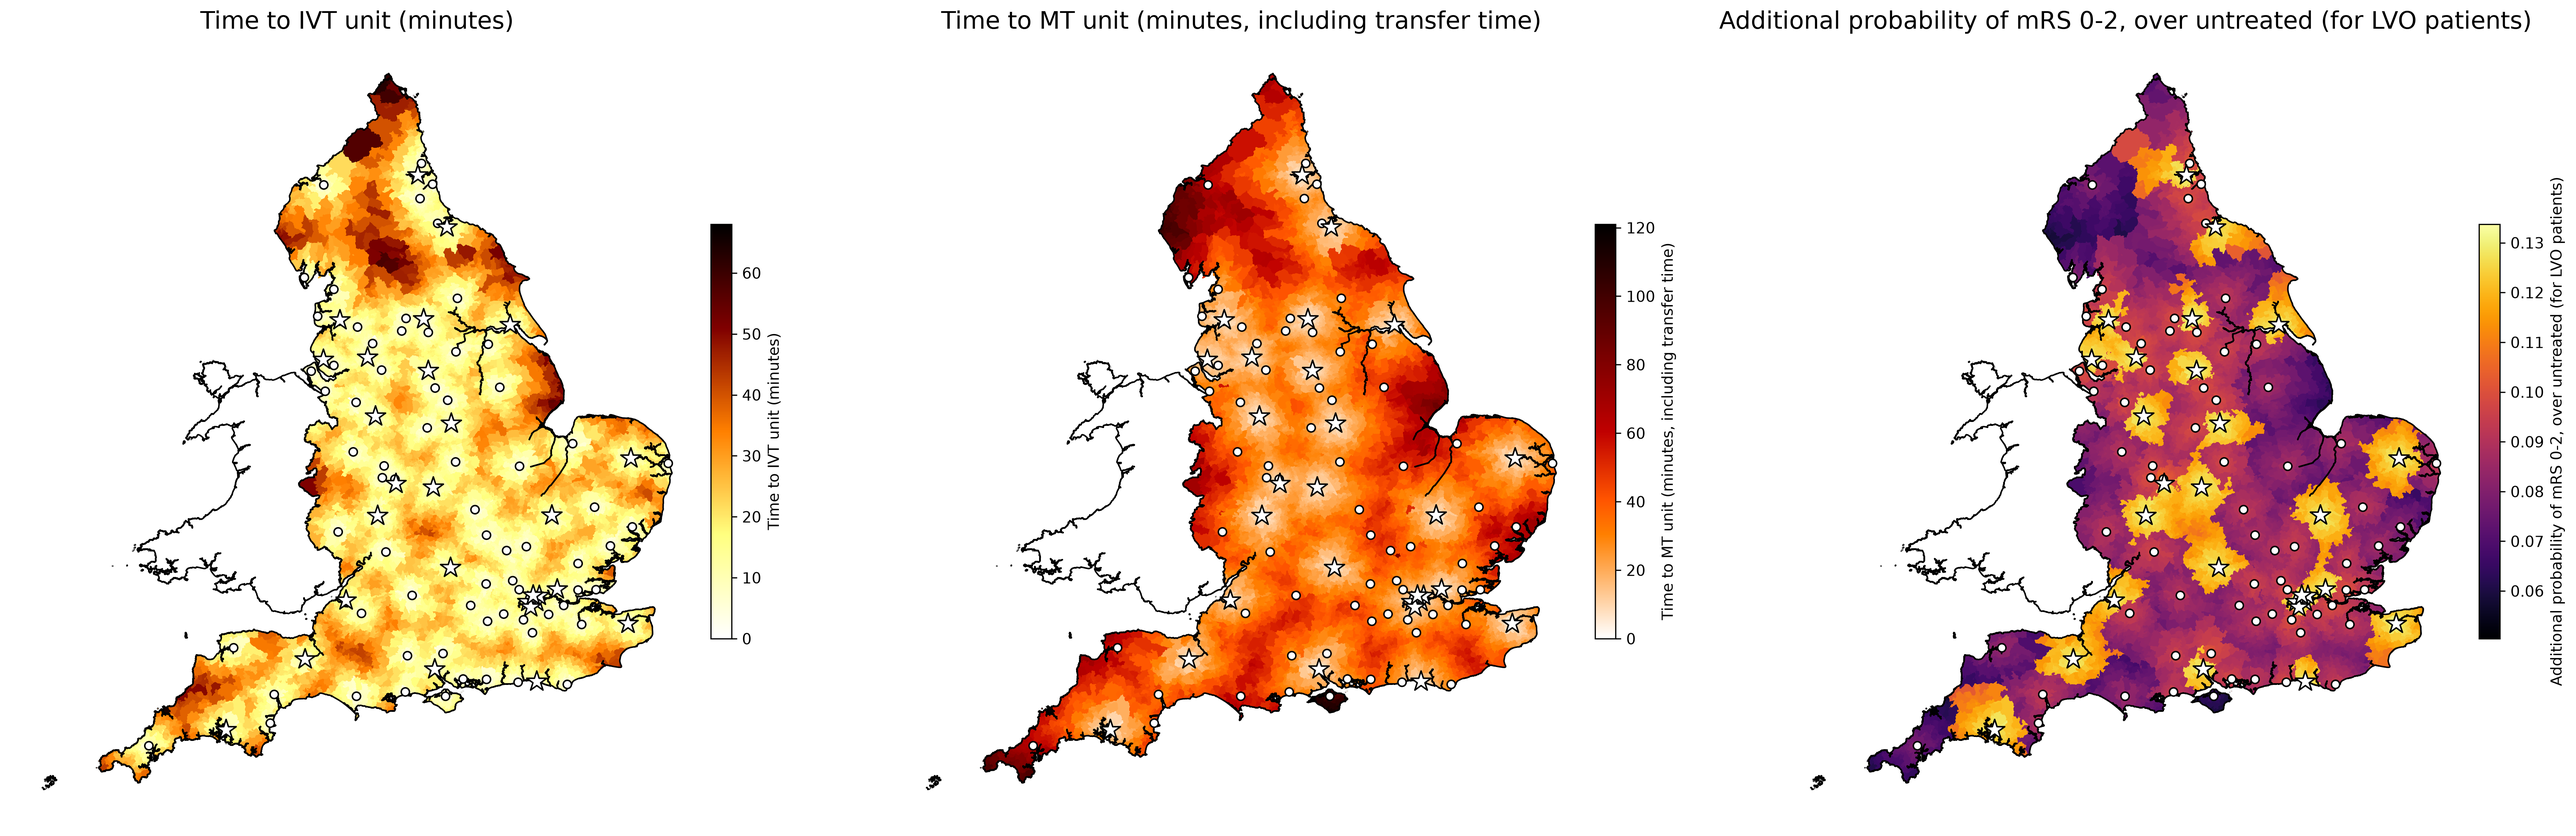
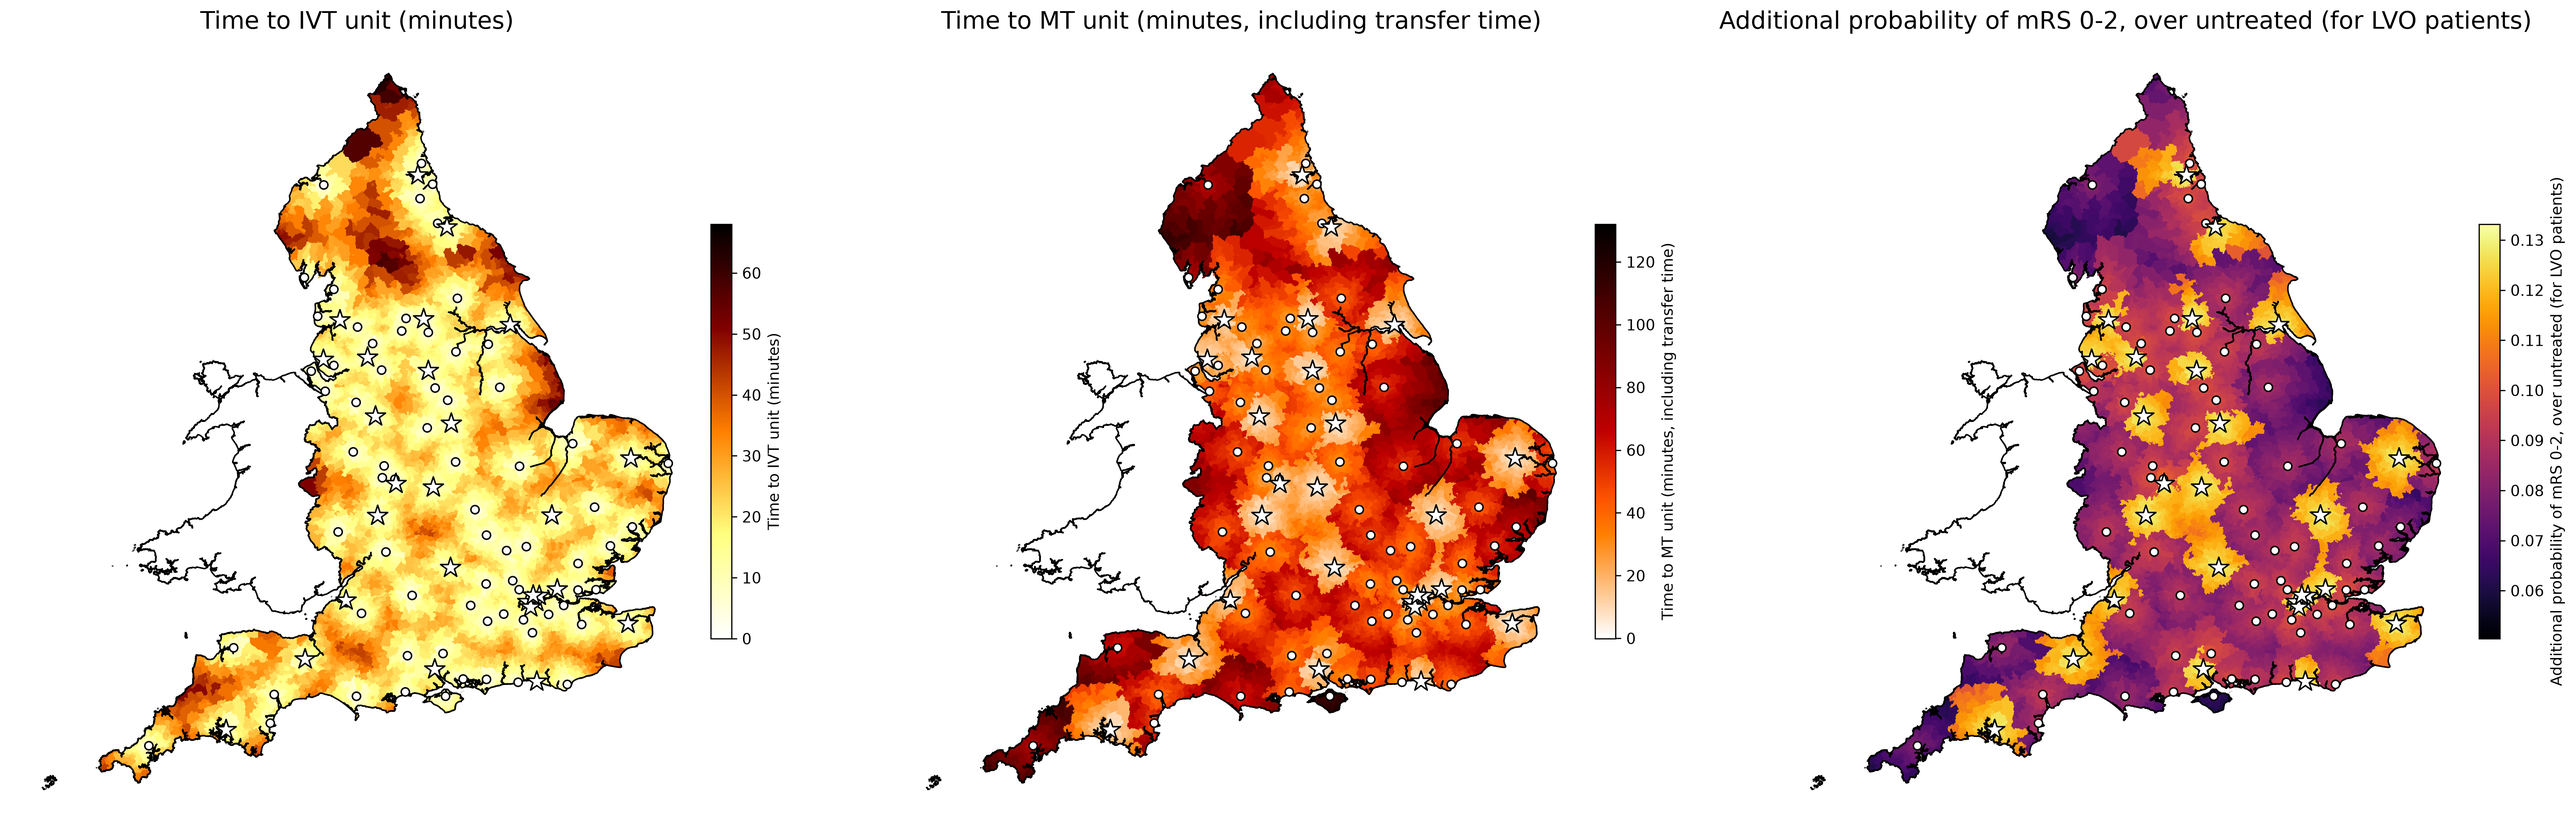
Updates from Overleaf

Changed region(s): [[0.3748, 0.1854, 0.6247, 0.8961], [0.4997, 0.1545, 0.531, 0.1854]]

diff --git a/chapters/3_methods.tex b/chapters/3_methods.tex
@@ -2,10 +2,13 @@
 
 Full methods have been published \cite{laws2025modelling}.
 
-Outcome modelling is based on published meta-analysis of clinical trials which have evaluated the decline of effectiveness  of IVT and MT over time \cite{emberson_effect_2014, fransen_time_2016}. We have applied those models to the expected real world treatment population (based on the national stroke audit of England and Wales, SSNAP). We calculate the expected benefit in the treated population for non large vessel occlusion (\textit{nLVO}, receiving IVT only) and large vessel occlusion (\textit{LVO}, receiving IVT and/or MT) separately.
+Outcome modelling is based on published meta-analysis of clinical trials which have evaluated the decline of effectiveness  of IVT and MT over time \cite{emberson_effect_2014, fransen_time_2016}. We have applied those models to the expected real world treatment population (based on the national stroke audit of England and Wales, SSNAP). We calculated the expected benefit in the treated population for non large vessel occlusion (\textit{nLVO}, receiving IVT only) and large vessel occlusion (\textit{LVO}, receiving IVT and/or MT) separately.
 
-We used modified Rankin Scale (mRS) at 3--6 months as a measure of outcome. mRS is the most commonly used instrument to describe post-stroke functional outcome \cite{quinn_functional_2009}, describing independence of living from a scale of 0 (no disability) through to 5 (severe disability requiring constant nursing attention), with death assigned an mRS of 6. A commonly used surrogate for independent living is mRS 0--2.
+We used modified Rankin Scale (mRS) at 3--6 months as a measure of outcome. mRS is the most commonly used instrument to describe post-stroke functional outcome \cite{quinn_functional_2009}, describing independence of living from a scale of 0 (no disability) through to 5 (severe disability requiring constant nursing attention), with death assigned an mRS of 6. A commonly used surrogate for independent living is mRS 0$-$2.
 
-We calculated the patients' mRS outcome distribution based on time to treatment for three patient-treatment cohorts: nLVO treated with IVT; LVO treated with IVT alone; and LVO treated with IVT and MT. For each patient-treatment cohort we calculated an mRS distribution for treatment at any given time by interpolating between the mRS distribution for treatment given at \emph{t=0} (time of stroke onset) and the mRS distribution for treatment given at \emph{t=No Effect} (time of no effect of treatment), assuming that log odds fall linearly over time \cite{emberson_effect_2014, fransen_time_2016}. Further details on how these \emph{t=0} and \emph{t=No Effect} mRS distributions were derived are given in the supplementary material. As possible changes to service provision reported here should only affect potential candidates for thrombectomy, in this report we only show results for treated large vessel occlusion stroke. 
+We calculated the patients' mRS outcome distribution based on time to treatment for three patient-treatment cohorts: nLVO treated with IVT; LVO treated with IVT alone; and LVO treated with IVT and MT. For each patient-treatment cohort we calculated an mRS distribution for treatment at any given time by interpolating between the mRS distribution for treatment given at \emph{t=0} (time of stroke onset) and the mRS distribution for treatment given at \emph{t=No Effect} (time of no effect of treatment), assuming that log odds fall linearly over time \cite{emberson_effect_2014, fransen_time_2016}. Further details on how these \emph{t=0} and \emph{t=No Effect} mRS distributions were derived are given in the supplementary material. As possible changes to service provision reported here should only affect potential candidates for thrombectomy, in this report we only show results for treated large vessel occlusion stroke.
+
+Travel times between all Lower Super Output Areas (LSOAs, areas with a population of approximately 1,500) and all stroke units were estimated using 
+Open Street Map data \footnote{\url{https://www.openstreetmap.org/}} and the Routino \footnote{\url{https://www.routino.org/}} route finding engine on Linux.
 
 The time to no effect was 6.3 hours for IVT \cite{emberson_effect_2014} and 8.0 hours for MT \cite{ fransen_time_2016}. Our model did not include selection of patients who may still benefit from treatment beyond these durations through the use of perfusion scanning. This number is small for IVT, but is more substantial for MT – approximately 2500 per annum in England. 

diff --git a/chapters/4_results.tex b/chapters/4_results.tex
@@ -21,7 +21,13 @@ The first arrival to thrombectomy times (median and quartiles) were:
 \end{itemize}
 
 
-\subsection{Clinical benefit of additional centres}
+\subsection{Clinical benefit of reperfusion treatment}
+
+In the current system, without reperfusion treatment the model predicts 26.5\% of LVO patients would achieve mRS 0-2 after 3-6 months. With IVT alone, this would increase to 32.4\% for treated patients, and with IVT and MT there would be a further increase to 37.8\%. If all patients attended their closest MT-capable unit first (a \textit{mothership} model of care) 42.0\% of treated LVO patients  would achieve mRS 0-2 after 3-6 months. Directing as many treatable LVO patients to their closest MT-capable unit would maximise outcomes.
+
+There is significant variation by geography. The proportion of treated patients achieving mRS 0-2 after 3-6 months ranges from 31.8\% to 39.8\% across England (a benefit of treatment of between 5.4 and 13.3 percentage point increase). Those living closest to a MT-capable unit have most benefit from treatment, with least benefit for those with the longest time to MT (a combination of travel time to their closest IVT-only unit and the travel time from that IVT unit to the closest MT-capable unit).
+
+\subsubsection{Clinical benefit of additional centres}
 
 We have compared the expected benefit of the current system (including new units in East Kent and Norwich) to the same system with the addition of Taunton and Worcester.
 
@@ -96,7 +102,7 @@ Figures \ref{fig:map_current_no_loss} to \ref{fig:comparison} show maps of the c
 
 \subsection{Effect of addition MT units on MT procedures by MT unit}
 
-Table \ref{tab:mt_units} shows the effect of adding Taunton and Worcester on MT admissions, if there were no loss of MT by first attending an IVT-only unit.
+Table \ref{tab:mt_units} shows the effect of adding Taunton and Worcester on MT admissions, if there was no loss of MT by first attending an IVT-only unit.
 
 
 \begin{table}[htbp]

diff --git a/main.tex b/main.tex
@@ -57,14 +57,15 @@
 
 \begin{document}
 
+
 % Ignore title and abstract in word count
 %TC:ignore
 \include{chapters/1_header}
 \begin{figure}
     \centering
-    \includegraphics[height=1.65cm]{images/arc_logo.png}
-    \hspace{1em}%
-    \includegraphics[height=1.75cm]{images/university-of-exeter-logo.png}
+    \includegraphics[height=1.6cm]{images/arc_logo.png}
+    \hspace{3em}%
+    \includegraphics[height=1.85cm]{images/university-of-exeter-logo.png}
 \end{figure}
 
 

diff --git a/chapters/1_header.tex b/chapters/1_header.tex
@@ -1,4 +1,4 @@
-\title{\textbf{Modelling of thrombectomy provision in England, 2026}} 
+\title{\textbf{Modelling thrombectomy provision in England, 2026}} 
 
 \renewcommand{\thefootnote}{\fnsymbol{footnote}}
 \author[1,2]{Michael Allen}
